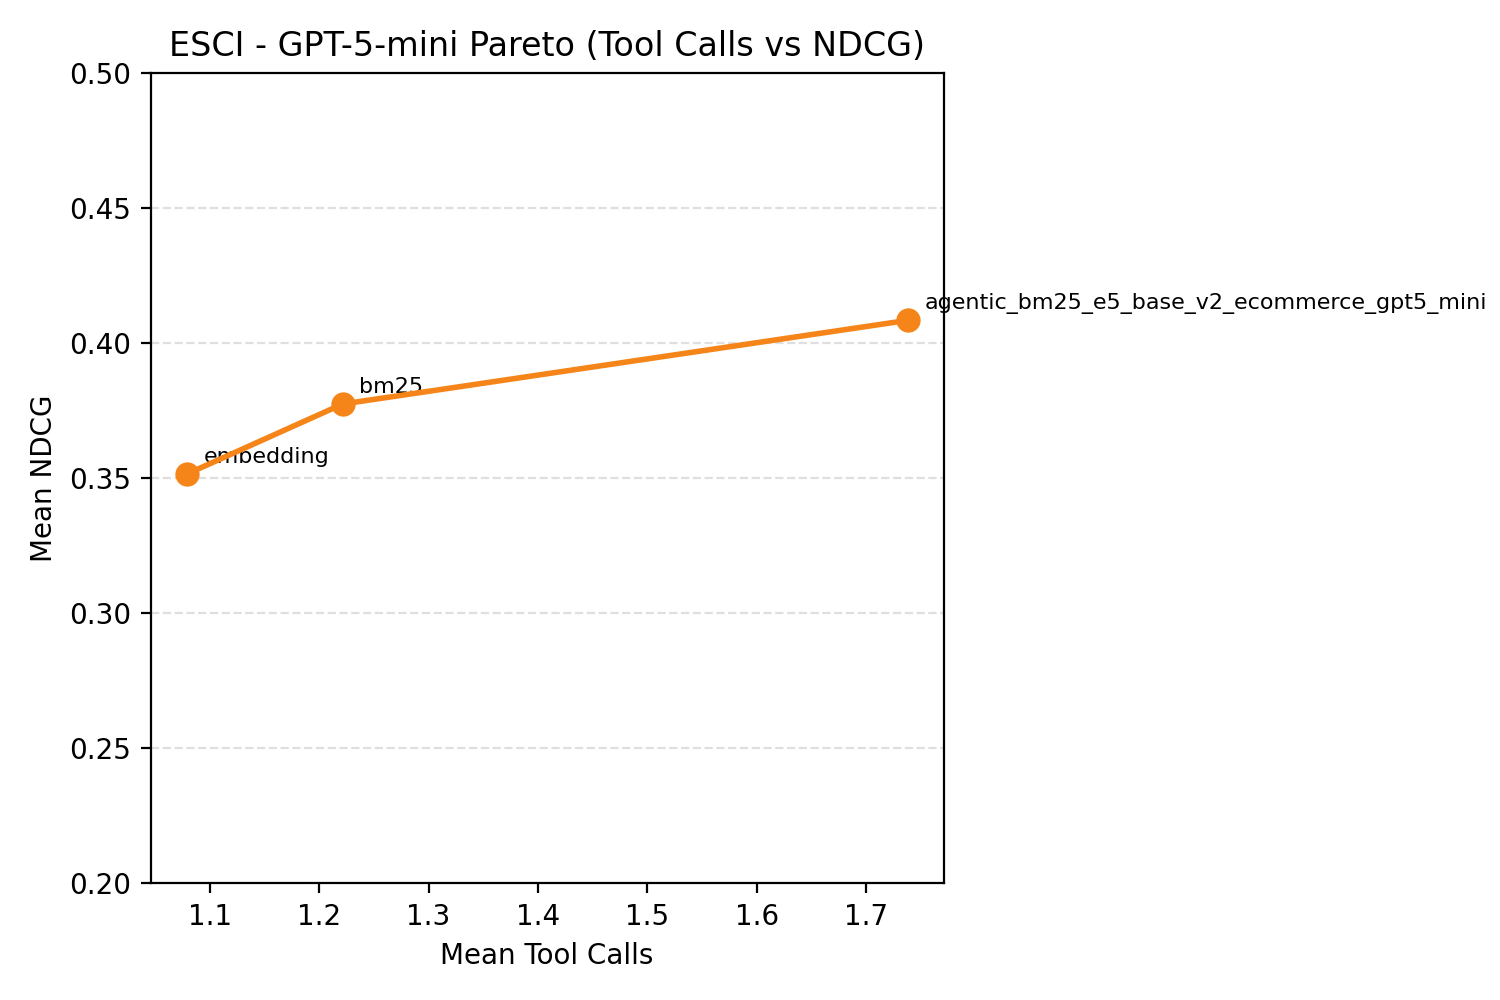
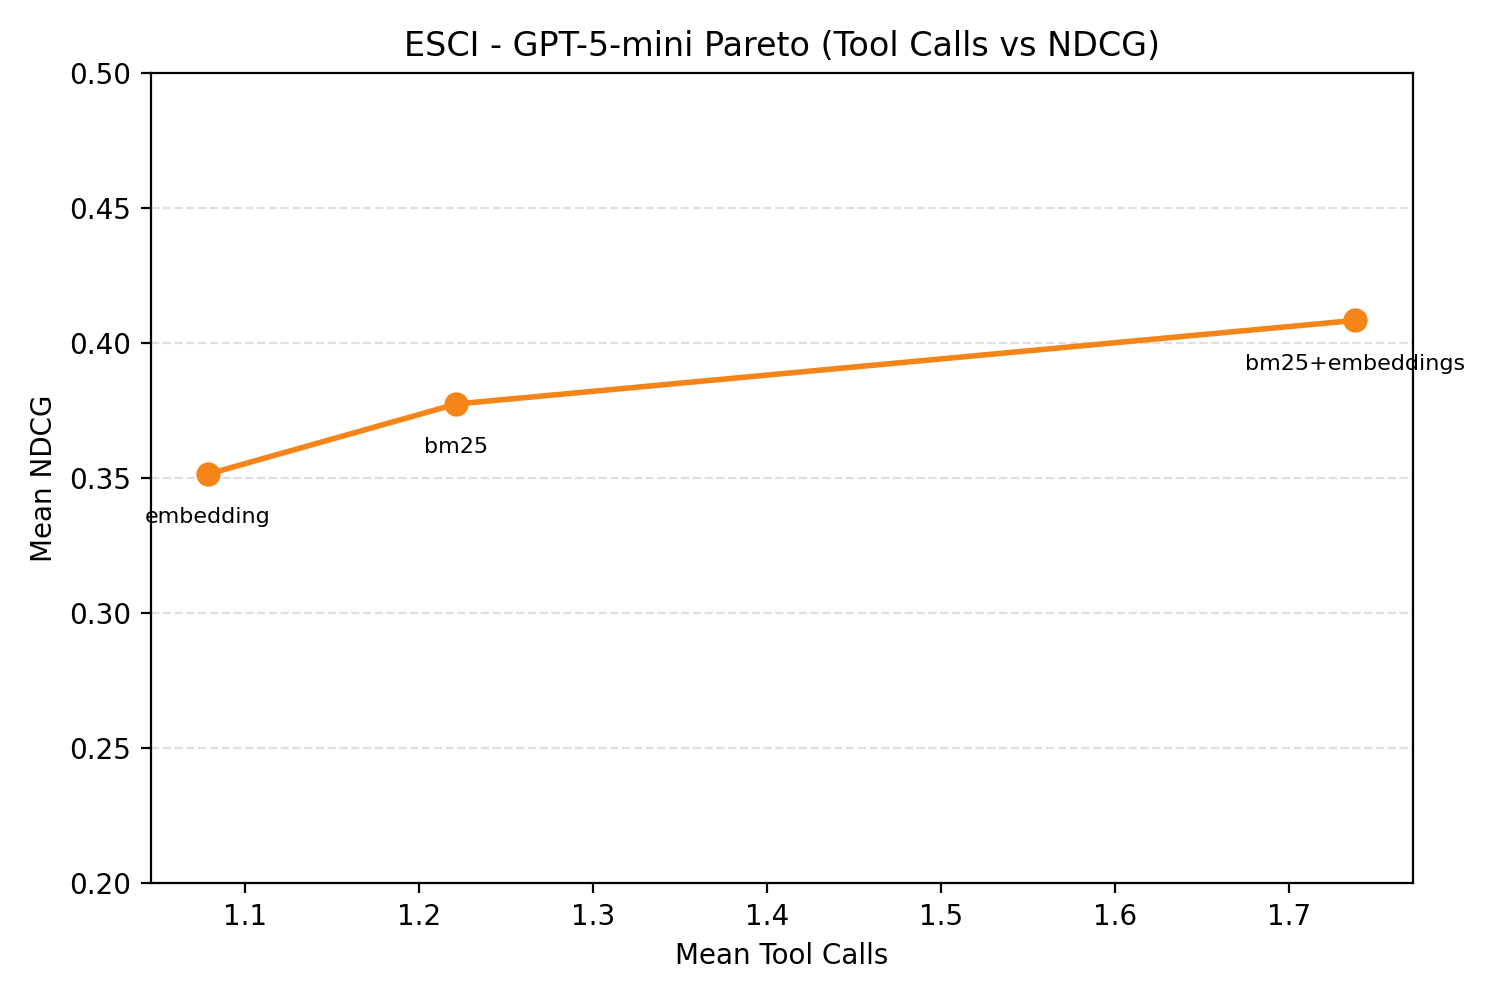
Update pareto labels and annotations

diff --git a/scripts/plot_pareto_tool_calls.py b/scripts/plot_pareto_tool_calls.py
@@ -24,6 +24,7 @@ LABEL_MAP = {
     "agentic_e5_ecommerce_gpt5_mini": "embedding",
     "agentic_bm25_ecommerce_gpt5_mini": "bm25",
     "agentic_bm25_minilm_ecommerce_gpt5_mini": "bm25+embedding",
+    "agentic_bm25_e5_base_v2_ecommerce_gpt5_mini": "bm25+embeddings",
 }
 
 
@@ -169,8 +170,9 @@ def _plot_dataset(rows: list[dict[str, float | str]], dataset: str, output_path:
             label,
             (row["tool_calls_mean"], row["mean_ndcg"]),
             textcoords="offset points",
-            xytext=(6, 4),
-            ha="left",
+            xytext=(0, -12),
+            ha="center",
+            va="top",
             fontsize=8,
         )
 
